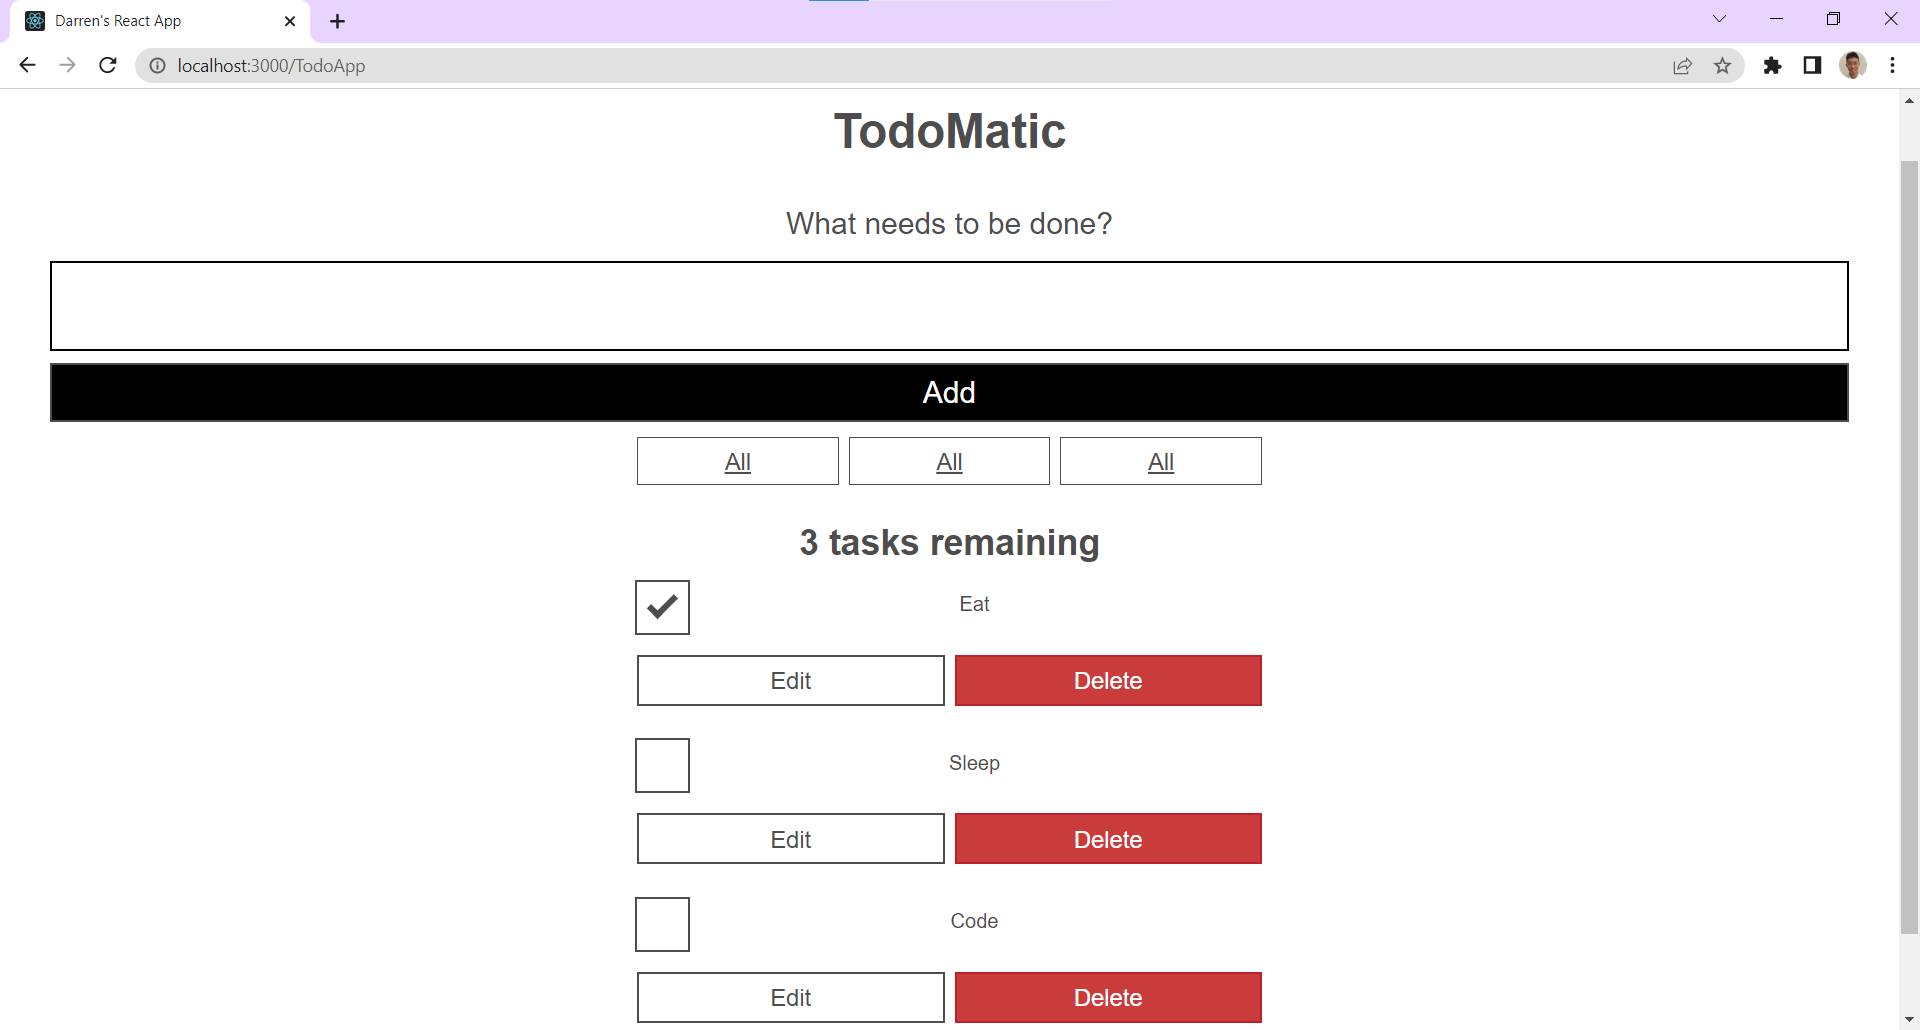
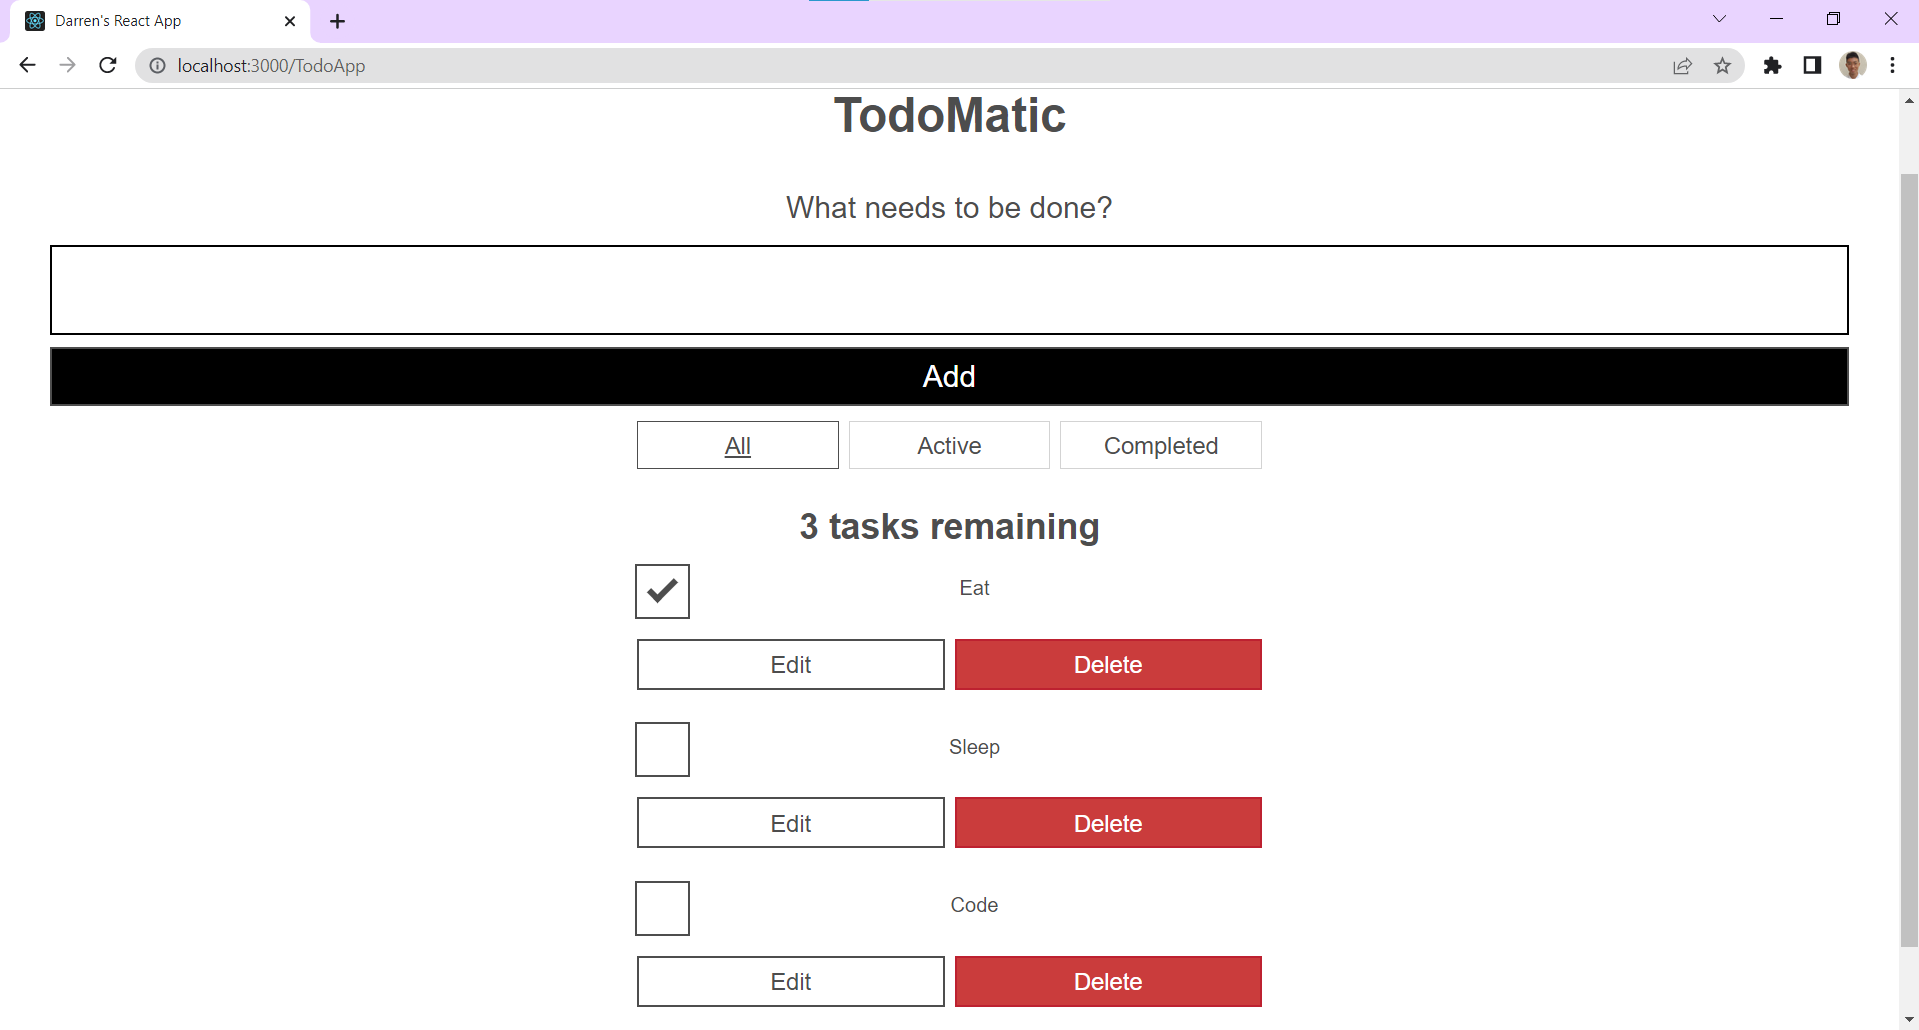
FilterButtons functionality

diff --git a/src/pages/TodoApp.tsx b/src/pages/TodoApp.tsx
@@ -2,7 +2,7 @@ import React, { useState } from 'react';
 import Todo from '../components/Todo';
 import Form from '../components/Form';
 import FilterButton from '../components/FilterButton';
-import { nanoid } from "nanoid";
+import { nanoid } from 'nanoid';
 
 type TodoItem = {
     id: string;
@@ -14,8 +14,34 @@ type TodoAppProps = {
     tasks: TodoItem[];
 };
 
+export enum FilterState {
+    All = 'All',
+    Active = 'Active',
+    Completed = 'Completed',
+}
+
+const FILTER_MAP = {
+    [FilterState.All]: () => true,
+    [FilterState.Active]: (task: TodoItem) => !task.isCompleted,
+    [FilterState.Completed]: (task: TodoItem) => task.isCompleted,
+};
+
+// Casting from type string to FilterState
+const FILTER_NAMES_STATE = Object.keys(FILTER_MAP).map(
+    (key) => key as FilterState
+);
+
 const TodoApp = (props: TodoAppProps) => {
     const [tasks, setTasks] = useState(props.tasks);
+    const [filterState, setFilterState] = useState(FilterState.All);
+    const filteredTasksButton = FILTER_NAMES_STATE.map((name) => (
+        <FilterButton
+            key={name}
+            name={name}
+            isPressed={name === filterState}
+            setFilterState={setFilterState}
+        />
+    ));
 
     const addTask = (taskName: string) => {
         const generatedId = nanoid();
@@ -23,19 +49,37 @@ const TodoApp = (props: TodoAppProps) => {
         const newTask: TodoItem = {
             id: `todo-${generatedId}`,
             name: taskName,
-            isCompleted: false
+            isCompleted: false,
         };
         setTasks([...tasks, newTask]);
     };
 
     function toggleTaskCompleted(id: string) {
-        const toggledTask = tasks.find(task => task.id === id);
+        const toggledTask = tasks.find((task) => task.id === id);
         if (toggledTask) {
             toggledTask.isCompleted = !toggledTask.isCompleted;
         }
     }
 
-    const taskList = tasks.map((task) => (
+    function deleteTask(id: string) {
+        const filteredTasks = tasks.filter((task) => task.id !== id);
+        setTasks(filteredTasks);
+    }
+
+    function editTask(id: string, newName: string) {
+        const editedTaskList = tasks.map((task) => {
+            if (task.id === id) {
+                // Object destructuring syntax
+                return { ...task, name: newName };
+            }
+            return task;
+        });
+        setTasks(editedTaskList);
+    }
+
+    const taskList = tasks
+        .filter(FILTER_MAP[filterState])
+        .map((task) => (
         // You should always pass a unique key to anything you render with iteration
         <Todo
             key={task.id}
@@ -43,6 +87,8 @@ const TodoApp = (props: TodoAppProps) => {
             name={task.name}
             isCompleted={task.isCompleted}
             toggleTaskCompleted={toggleTaskCompleted}
+            deleteTask={deleteTask}
+            editTask={editTask}
         />
     ));
 
@@ -55,9 +101,7 @@ const TodoApp = (props: TodoAppProps) => {
             <h1>{'TodoMatic'}</h1>
             <Form addTask={addTask} />
             <div className="filters btn-group stack-exception">
-                <FilterButton />
-                <FilterButton />
-                <FilterButton />
+                {filteredTasksButton}
             </div>
             <h2 id="list-heading">{headingText}</h2>
             {/*

diff --git a/src/components/Todo.tsx b/src/components/Todo.tsx
@@ -1,16 +1,32 @@
-import React from 'react';
+import React, { useState } from 'react';
 
 type TodoProps = {
     name: string;
     isCompleted: boolean;
     id: string;
     toggleTaskCompleted: (id: string) => void;
+    deleteTask: (id: string) => void;
+    editTask: (id: string, newName: string) => void;
 };
 
 const Todo = (props: TodoProps) => {
     const item = props.name;
+    const [isEditing, setIsEditing] = useState(false);
+    const [newName, setNewName] = useState(item);
 
-    return (
+    function handleNewNameChange(event: React.ChangeEvent<HTMLInputElement>) {
+        console.log('New target value: ' + event.target.value);
+        setNewName(event.target.value);
+    }
+
+    function handleNewNameSubmit(event: React.FormEvent<HTMLFormElement>) {
+        event.preventDefault();
+        props.editTask(props.id, newName);
+        setNewName(newName);
+        setIsEditing(false);
+    }
+
+    const viewTemplate = (
         <li className="todo stack-small">
             <div className="c-cb">
                 <input
@@ -24,15 +40,56 @@ const Todo = (props: TodoProps) => {
                 </label>
             </div>
             <div className="btn-group">
-                <button type="button" className="btn">
+                <button
+                    type="button"
+                    className="btn"
+                    onClick={() => setIsEditing(true)}
+                >
                     Edit <span className="visually-hidden">{item}</span>
                 </button>
-                <button type="button" className="btn btn__danger">
+                <button
+                    type="button"
+                    className="btn btn__danger"
+                    onClick={() => props.deleteTask(props.id)}
+                >
                     Delete <span className="visually-hidden">{item}</span>
                 </button>
             </div>
         </li>
     );
+
+    const editTemplate = (
+        <form className="todo stack-small" onSubmit={handleNewNameSubmit}>
+            <div className="form-group">
+                <label className="todo-label" htmlFor={props.id}>
+                    New name for {item}
+                </label>
+                <input
+                    id={props.id}
+                    className="todo-text"
+                    type="text"
+                    value={newName}
+                    onChange={handleNewNameChange}
+                />
+            </div>
+            <div className="btn-group">
+                <button
+                    type="button"
+                    className="btn todo-cancel"
+                    onClick={() => setIsEditing(false)}
+                >
+                    Cancel{' '}
+                    <span className="visually-hidden">renaming {item}</span>
+                </button>
+                <button type="submit" className="btn btn__primary todo-edit">
+                    Save{' '}
+                    <span className="visually-hidden">new name for {item}</span>
+                </button>
+            </div>
+        </form>
+    );
+
+    return <li className="todo">{isEditing ? editTemplate : viewTemplate}</li>;
 };
 
 export default Todo;

diff --git a/src/components/FilterButton.tsx b/src/components/FilterButton.tsx
@@ -1,10 +1,23 @@
 import React from 'react';
+import { FilterState } from '../pages/TodoApp';
 
-const FilterButton = (props: {}) => {
+type FilterButtonProps = {
+    key: string;
+    name: FilterState;
+    isPressed: boolean;
+    setFilterState: (filterState: FilterState) => void;
+};
+
+const FilterButton = (props: FilterButtonProps) => {
     return (
-        <button type="button" className="btn toggle-btn" aria-pressed="true">
+        <button
+            type="button"
+            className="btn toggle-btn"
+            aria-pressed={props.isPressed}
+            onClick={() => props.setFilterState(props.name)}
+        >
             <span className="visually-hidden">{'Show '}</span>
-            <span>all</span>
+            <span>{props.name}</span>
             <span className={'visually-hidden'}>{' Tasks'}</span>
         </button>
     );

diff --git a/README.md b/README.md
@@ -69,8 +69,9 @@ Excerpt from the above link:
 > tool window.
 
 It is explained [here](https://www.jetbrains.com/help/webstorm/react.html#ws_react_debug_localhost) but the gist is that
-after setting breakpoints, you can start the application using npm/yarn as per usual, then hold Ctrl+Shift and click 
-the URL link. WebStorm starts a debugging session with an automatically generated Debug Application configuration.
+after setting breakpoints (must be done before launching the debugger), you can start the application using npm/yarn as 
+per usual, then hold Ctrl+Shift and click the URL link. WebStorm starts a debugging session with an automatically 
+generated Debug Application configuration.
 
 For full explanation on the webstorm-React integration check [here](https://www.jetbrains.com/help/webstorm/react.html).
 
